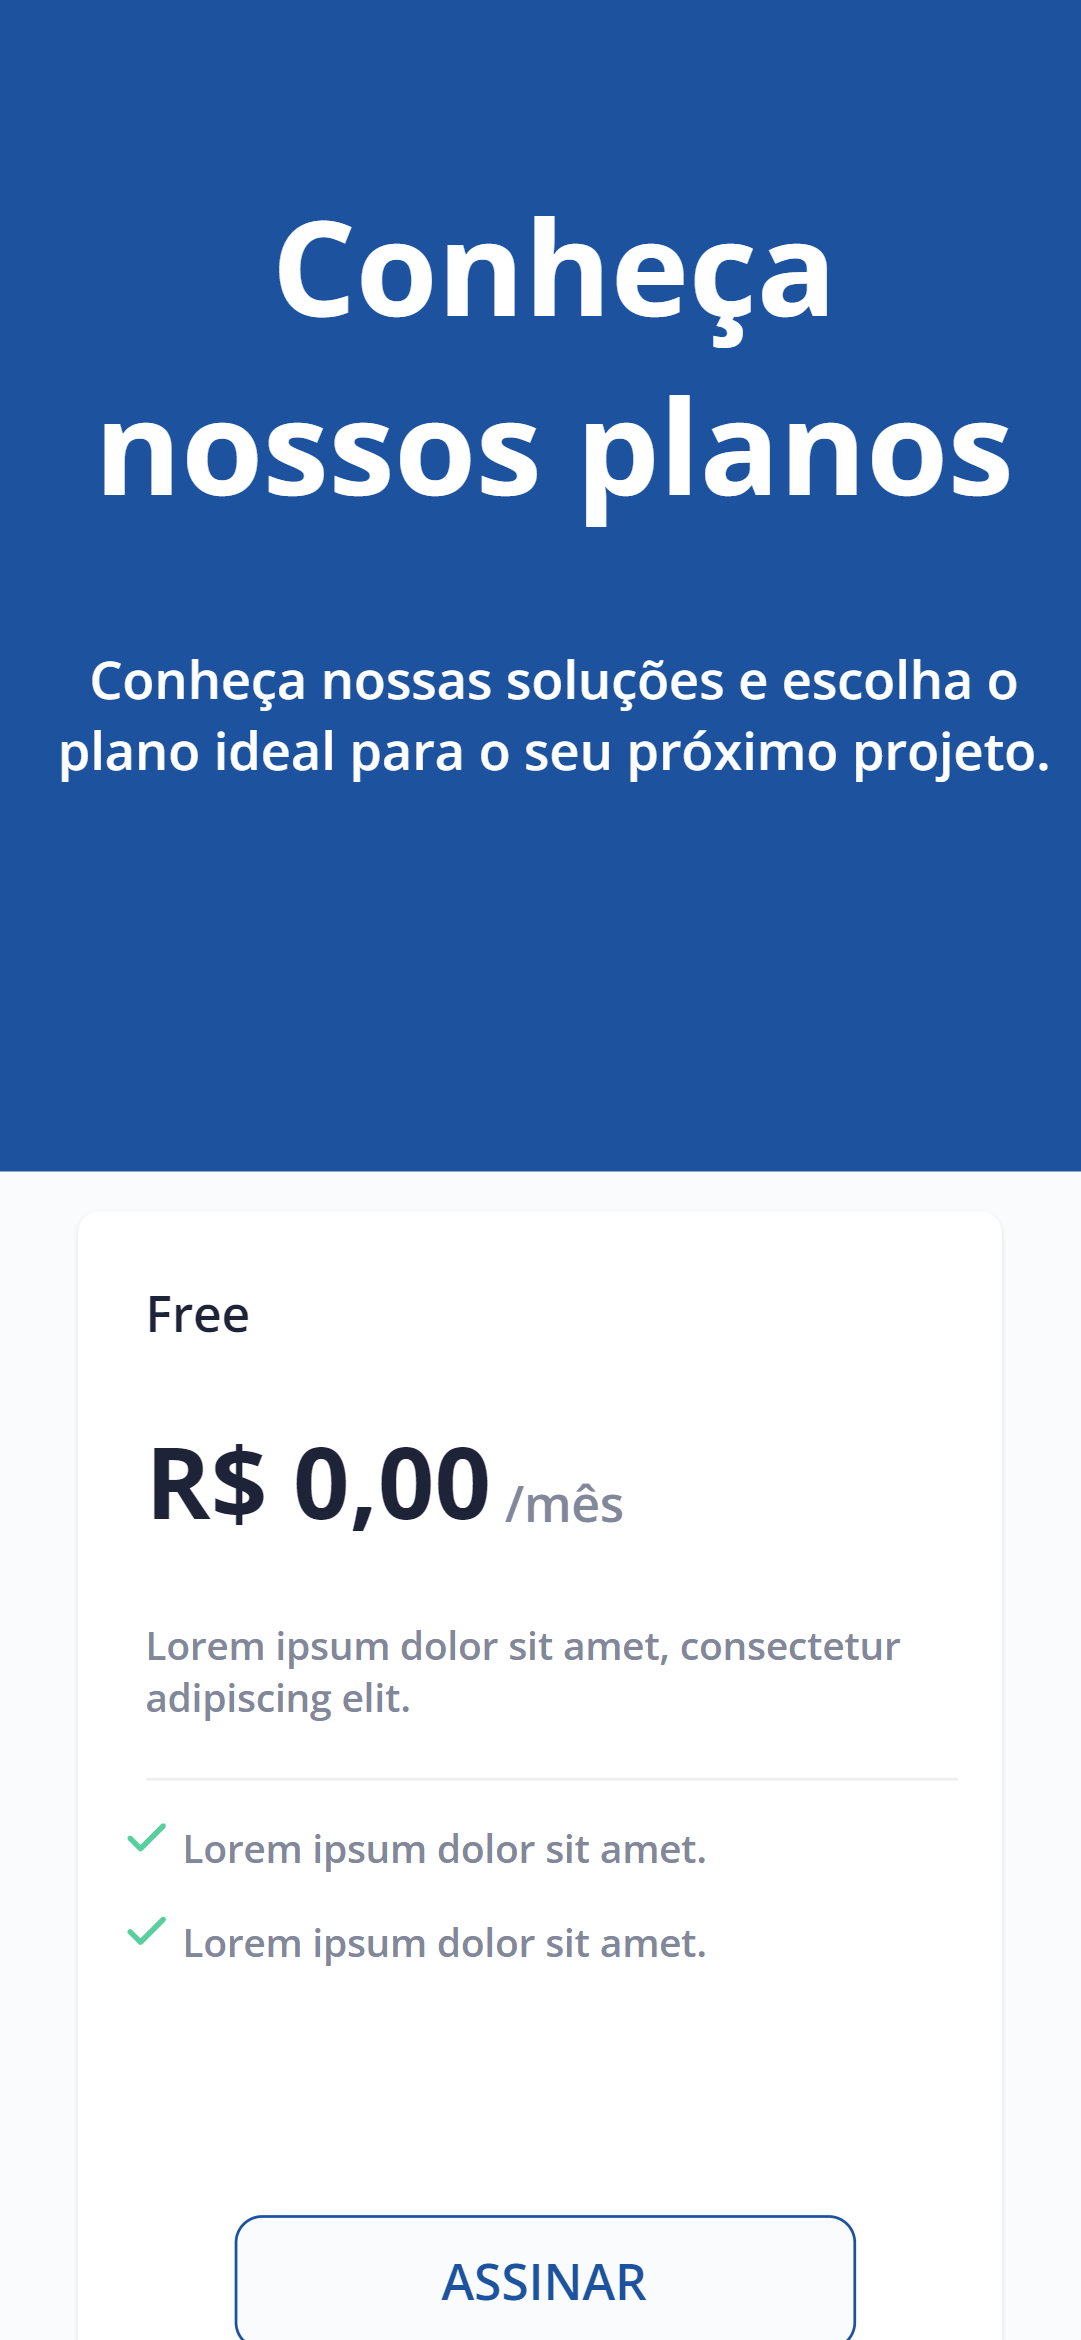
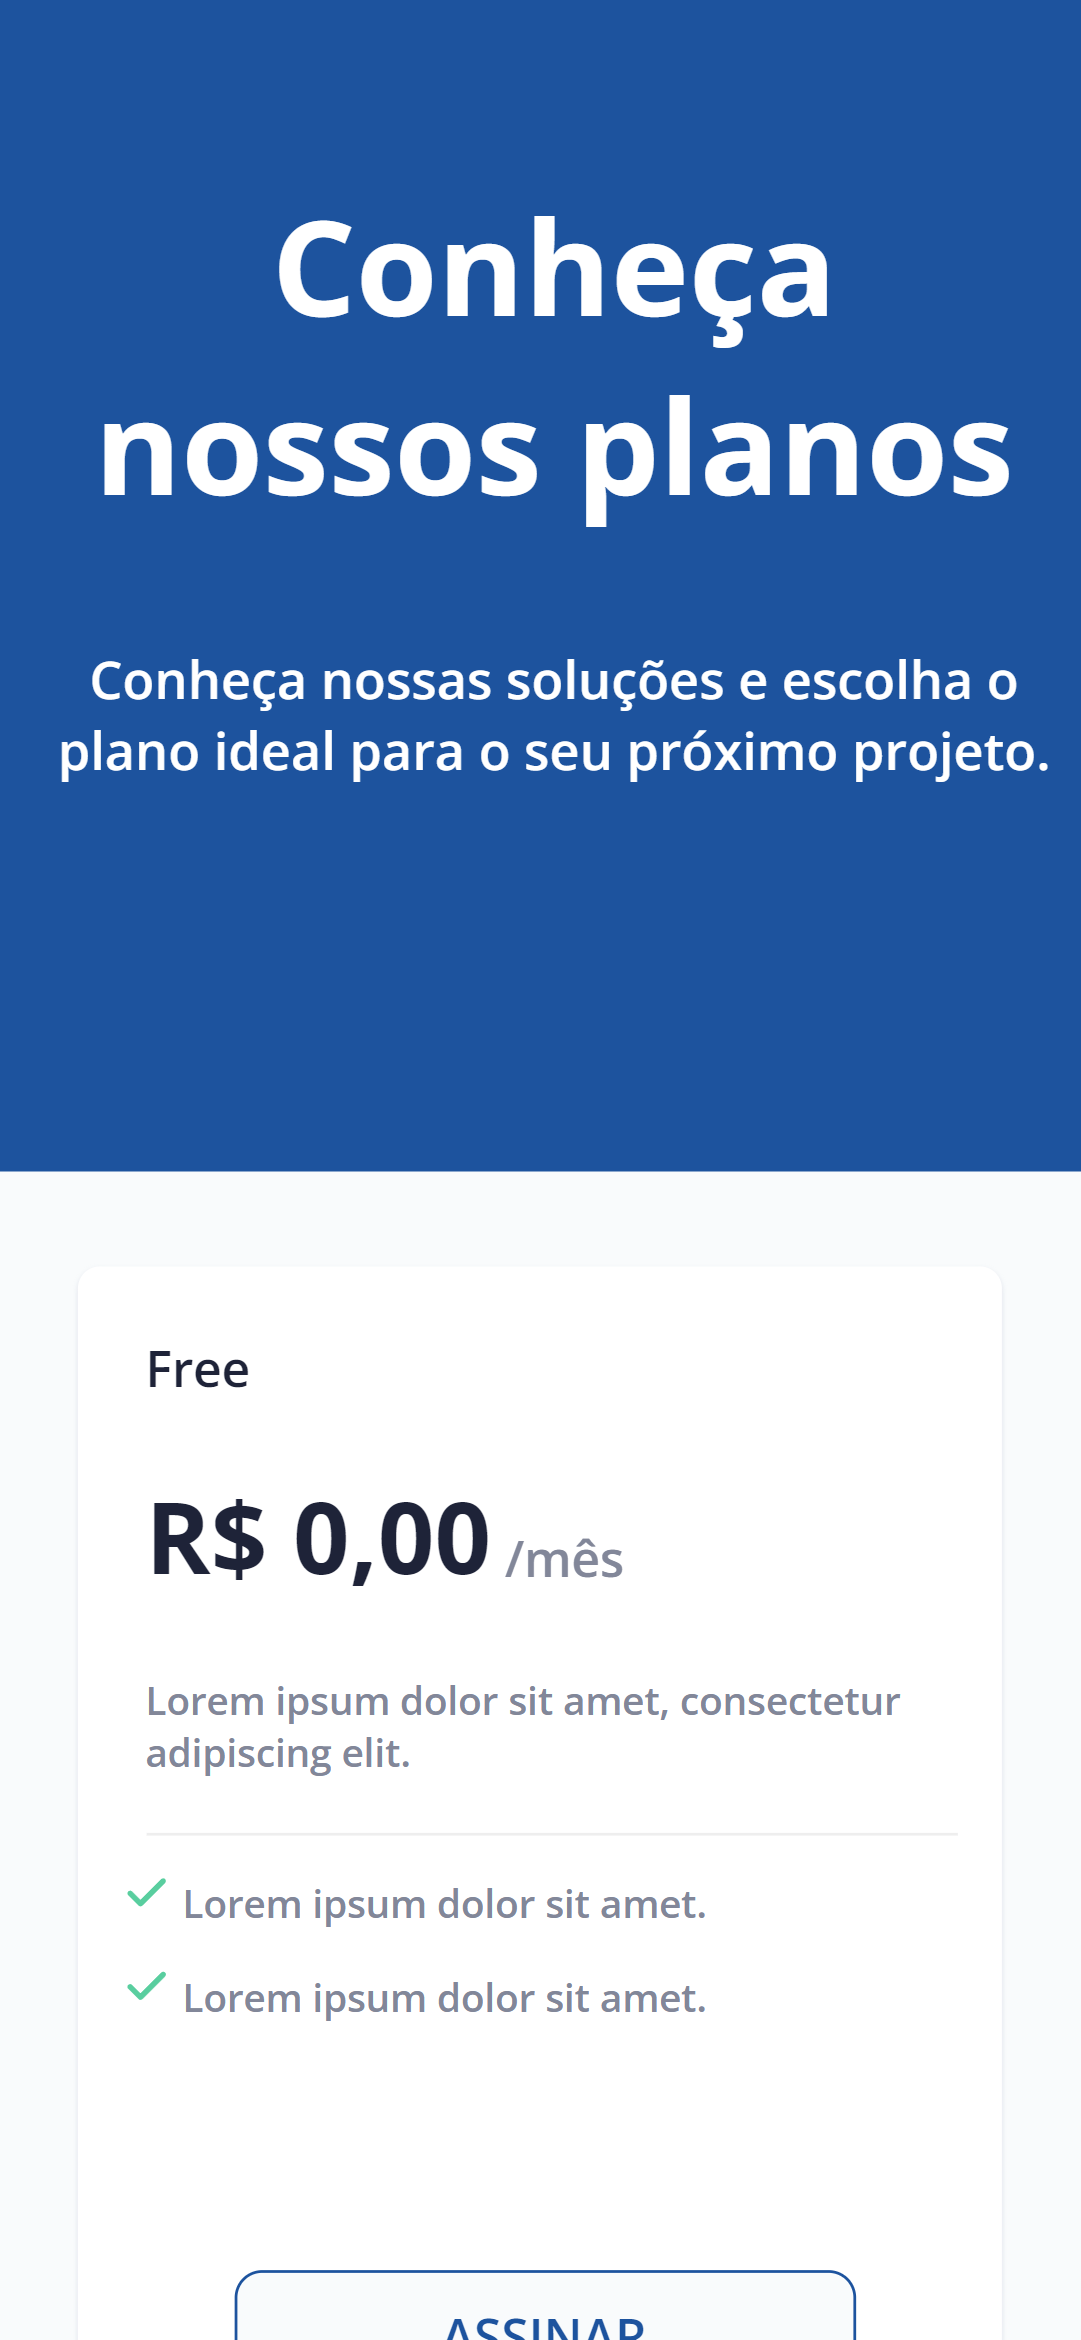
first commit

diff --git a/style.css b/style.css
@@ -525,6 +525,7 @@ body {
 
   #first-content {
     margin-left: 18px;
+    margin-top: 30px;
   }
 
   #first-content button {
@@ -536,6 +537,8 @@ body {
   }
   #second-content {
     margin-left: 18px;
+    margin-top: 50px;
+    margin-bottom: 0;
   }
   #second-content button {
     margin-left: 57px;
@@ -547,6 +550,7 @@ body {
   }
   #third-content {
     margin-left: 18px;
+    margin-top: 50px;
   }
   #third-content button {
     margin-left: 57px;
